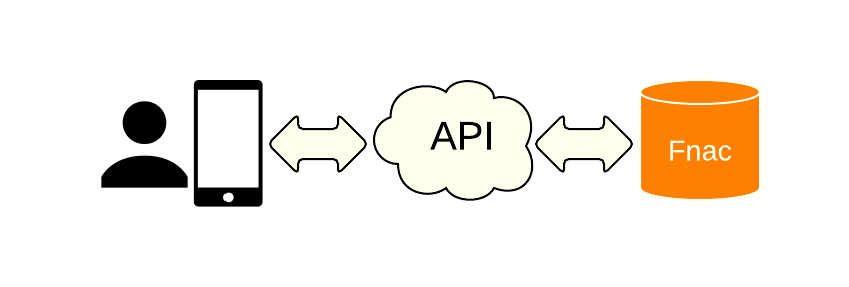
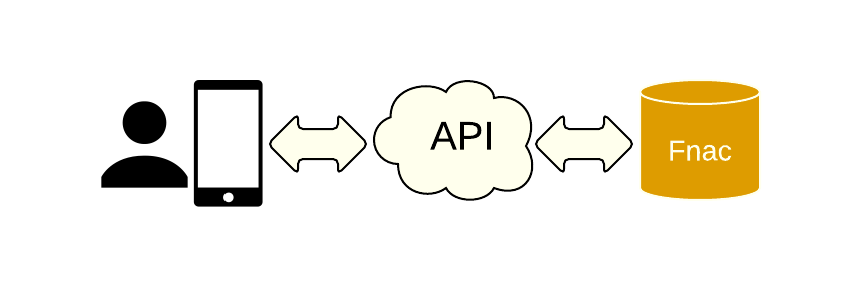
:lipstick:

Changed region(s): [[0.735, 0.2787, 0.9187, 0.6969]]

diff --git a/index.html b/index.html
@@ -460,11 +460,30 @@
 						<li class="fragment">node-restful : interface mongoose et express</li>
 					</ul>
 				</section>
-				<section>
+
+				<section data-transition="none">
 					<h3>API</h3>
 					<br/>
 					<h4>Comment?</h4>
-
+					<img class="noborder" src="img/API - 1.png"/>
+				</section>
+				<section data-transition="none">
+					<h3>API</h3>
+					<br/>
+					<h4>Comment?</h4>
+					<img class="noborder" src="img/API - 2.png"/>
+				</section>
+				<section data-transition="none">
+					<h3>API</h3>
+					<br/>
+					<h4>Comment?</h4>
+					<img class="noborder" src="img/API - 3.png"/>
+				</section>
+				<section data-transition="none">
+					<h3>API</h3>
+					<br/>
+					<h4>Comment?</h4>
+					<img class="noborder" src="img/API - 4.png"/>
 				</section>
 
 			</section>
@@ -490,13 +509,27 @@
 				<section>
 					<h3>Aspirateur Web</h3>
 					<br/>
-
+					<ul>
+						<li class="fragment">Python</li>
+						<li class="fragment">~2000 questions generés</li>
+						<li class="fragment">~5000 produits generés</li>
+					</ul>
+				</section>
+				<section>
+					<h3>Aspirateur Web</h3>
+					<br/>
+					<img src="img/lmEcom.png"/>
+				</section>
+				<section>
+					<h3>Aspirateur Web</h3>
+					<br/>
+					<img src="img/fnacEcom.png"/>
 				</section>
 
 				<section data-transition="none">
 					<h3>Moteur de recommandations génerique</h3>
 					<br/>
-					<img class="noborder"  src="img/generik - 1.png"/>
+					<img class="noborder" src="img/generik - 1.png"/>
 				</section>
 				<section data-transition="none">
 					<h3>Moteur de recommandations génerique</h3>
